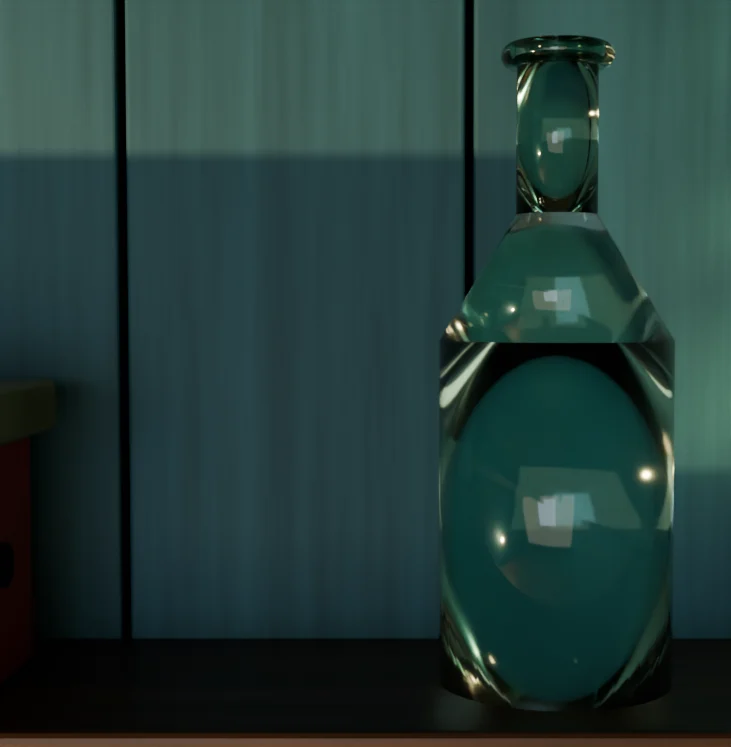
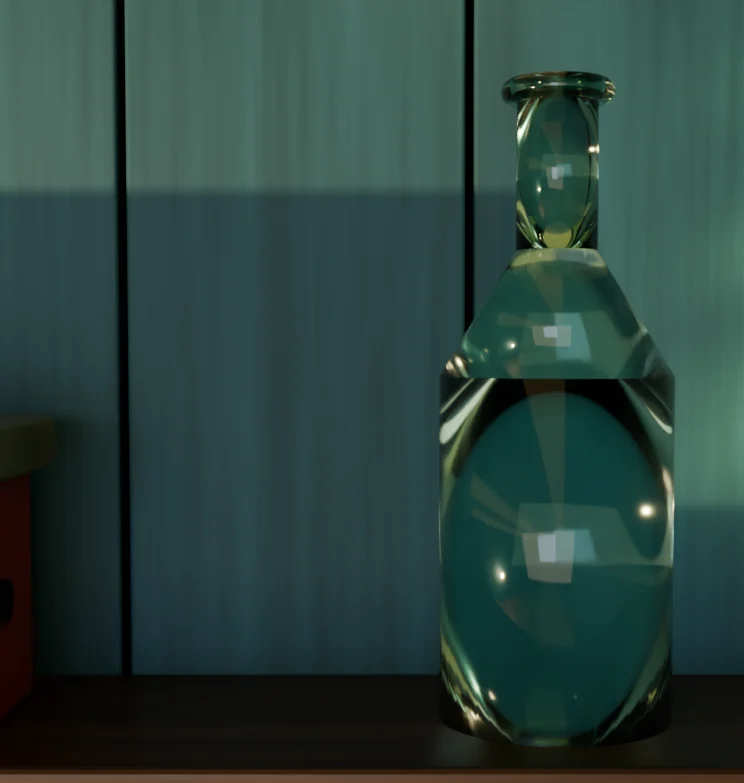
Clock answers the literal sketch, 3D inventory items, only the bottle turns over

diff --git a/js/art.js b/js/art.js
@@ -369,8 +369,17 @@ function kLock(s, fx, q) {
 }
 
 function kBottle(s, fx) {
-  const f = s.f;
-  const a = `<g class="${fx === 'flip' ? 'fx-flip' : ''}" style="transform-origin:200px 250px">` + rendered('bottle', { bottle: !f.pageOut ? 'paper' : !f.pageTaken ? 'out' : 'empty' }, s, fx, true) + '</g>';
+  const f = s.f, m = M3.bottle, r = m.regions.bottle.rect;
+  let a;
+  if (fx === 'flip') {
+    // only the bottle turns over: the shelf stays where it is, the paper is there when it comes back
+    const hb = m.hots.bottle, cx = hb[0] + hb[2] / 2, cy = hb[1] + hb[3] / 2;
+    a = rendered('bottle', { bottle: 'none' }, s, fx, true) +
+      `<g class="fx-flipout" style="transform-origin:${n(cx)}px ${n(cy)}px">${pic('bottle_sprite_bottle_lit', r)}</g>` +
+      `<g class="fx-flipin">${pic('bottle_bottle_out_lit', r)}</g>`;
+  } else {
+    a = rendered('bottle', { bottle: !f.pageOut ? 'paper' : !f.pageTaken ? 'out' : 'empty' }, s, fx, true);
+  }
   let h = hot3('bottle', 'bottle');
   if (f.pageOut && !f.pageTaken) h += hot3('bottle', 'page');
   return { art: a, hots: h, glow: [-80, 200, 420], noNight: true, soft: true };
@@ -489,7 +498,8 @@ function kRings(s, fx, q) {
 
 // Every picture file, so the game can fetch them before they are needed.
 export function pictureFiles() {
-  const out = [];
+  const out = ITEM_NAMES.map((i) => `art3d/icon_${i}.webp`);
+  out.push('art3d/bottle_sprite_bottle_lit.webp');
   for (const [view, m] of Object.entries(M3)) {
     for (const tone of m.tones || ['lit', 'dark']) {
       out.push(`art3d/${view}_${tone}.webp`);
@@ -553,19 +563,8 @@ export function blinkCSS() {
   return css;
 }
 
+export const ITEM_NAMES = ['matches', 'jar', 'lens', 'crank', 'oil', 'page', 'drum', 'hkey', 'key'];
 export function icon(item) {
-  const svg = (b) => `<svg viewBox="0 0 40 40" aria-hidden="true">${b}</svg>`;
-  switch (item) {
-    case 'matches': return svg(R(6, 11, 28, 18, 'red', '', 0.6) + R(6, 16, 28, 8, 'paper', '', 0.4) + C(20, 20, 2.6, 'brass'));
-    case 'jar': return svg(R(11, 12, 18, 23, 'glass', '', 0.5) + R(13, 22, 14, 12, '#5F9C9A', '', 0.4) + R(10, 6, 20, 6, 'brass2', '', 0.4) + C(17, 27, 1.4, 'phos') + C(23, 30, 1.1, 'phos') + C(21, 25, 0.9, 'phos'));
-    case 'page': return svg(P([[13, 5], [31, 6], [32, 35], [11, 34], [14, 27], [10, 20], [14, 13]], 'paper', '', 0.5) + S('M12 20 a11 11 0 0 1 11 -11', 'ink', 1.6) + L(13, 20, 22, 25, 'ink', 1.8));
-    case 'lens': return svg(C(20, 20, 14, 'brass2') + C(20, 20, 10.5, 'fog') + P([[14, 14], [19, 12], [17, 18]], 'paper', '', 0.3));
-    case 'crank': return svg(S('M9 28 h18 v-15', 'brass', 4.5) + C(27, 11, 5, 'brass') + C(9, 28, 3.6, 'brass2'));
-    case 'oil': return svg(P([[9, 34], [27, 34], [24, 16], [12, 16]], 'brass2', '', 0.5) + L(23, 18, 35, 8, 'brass2', 3) + C(18, 14, 3.4, 'brass') + L(13, 20, 14, 31, 'brass3', 1.4));
-    case 'drum': return svg(R(6, 13, 28, 14, 'brass', '', 0.4) + C(11, 18, 1.2, 'ink') + C(17, 23, 1.2, 'ink') + C(22, 17, 1.2, 'ink') + C(28, 22, 1.2, 'ink') + C(14, 21, 1.2, 'ink') + C(25, 20, 1.2, 'ink'));
-    case 'hkey': return svg(O(13, 20, 5, 'brass', 3) + B(18, 18.6, 14, 2.8, 'brass') + B(27, 21, 2.6, 4.5, 'brass'));
-    case 'key': return svg(O(11, 20, 7, 'brass', 4.5) + B(18, 17.8, 18, 4.4, 'brass') + B(27, 22, 4, 7, 'brass') + B(33, 22, 3, 5, 'brass'));
-  }
-  return '';
+  return `<img src="art3d/icon_${item}.webp" alt="" draggable="false">`;
 }
 

diff --git a/css/style.css b/css/style.css
@@ -142,7 +142,7 @@ button:focus-visible { outline: 2px solid var(--lampc); outline-offset: 3px; }
 /* sparks and the thing you picked up flying to your pocket */
 .spark { position: absolute; width: 6px; height: 6px; margin: -3px 0 0 -3px; border-radius: 50%; pointer-events: none; z-index: 3; }
 .fly { position: fixed; z-index: 9; width: 43px; height: 43px; margin: -21px 0 0 -21px; pointer-events: none; }
-.fly svg { width: 100%; height: 100%; display: block; }
+.fly svg, .fly img { width: 100%; height: 100%; display: block; object-fit: contain; }
 
 .fx-patch { animation: beamIn 0.5s ease-out both; }
 
@@ -168,8 +168,10 @@ button:focus-visible { outline: 2px solid var(--lampc); outline-offset: 3px; }
 .fx-blur { filter: blur(7px); }
 .fx-shake { animation: shake 0.4s ease-in-out; }
 @keyframes shake { 20% { transform: translateX(-9px); } 40% { transform: translateX(8px); } 60% { transform: translateX(-6px); } 80% { transform: translateX(4px); } }
-.fx-flip { animation: flip 1.7s cubic-bezier(0.5, 0, 0.3, 1) both; }
-@keyframes flip { 0% { transform: rotate(0); } 35%, 62% { transform: rotate(180deg); } 100% { transform: rotate(360deg); } }
+.fx-flipout { animation: flipOut 1.8s cubic-bezier(0.5, 0, 0.3, 1) both; }
+@keyframes flipOut { 0% { transform: rotate(0); opacity: 1; } 36%, 60% { transform: rotate(180deg); opacity: 1; } 84% { opacity: 1; } 100% { transform: rotate(360deg); opacity: 0; } }
+.fx-flipin { animation: flipIn 1.8s linear both; }
+@keyframes flipIn { 0%, 66% { opacity: 0; } 100% { opacity: 1; } }
 .fx-pageout { animation: pageOut 0.6s ease-out 0.75s both; }
 @keyframes pageOut { from { transform: translate(-90px, -150px) rotate(-80deg); opacity: 0; } }
 
@@ -279,7 +281,7 @@ button:focus-visible { outline: 2px solid var(--lampc); outline-offset: 3px; }
   border-radius: 3px 5px 4px 6px;
   transition: transform 0.12s, background 0.12s;
 }
-.slot svg { width: 100%; height: 100%; display: block; }
+.slot svg, .slot img { width: 100%; height: 100%; display: block; object-fit: contain; pointer-events: none; }
 .slot:empty { opacity: 0.45; }
 .slot.new { animation: drop 0.45s cubic-bezier(0.3, 1.5, 0.5, 1); }
 .slot.glowing { background: #1E5A52; box-shadow: 0 0 14px 2px rgba(159, 240, 200, 0.55); }

diff --git a/js/logic.js b/js/logic.js
@@ -371,6 +371,10 @@ function hotspot(s, name, arg, sel) {
         f.clockSolved = true;
         return { sfx: 'chime', fx: 'clock' };
       }
+      // the sketch, copied hand for hand: the most natural wrong answer, so it gets a reply
+      if (s.clock.h === DRAWN_CLOCK.h && s.clock.m === DRAWN_CLOCK.m) {
+        return { sfx: 'tick', fx: 'hand', at: name === 'knobH' ? 'h' : 'm', msg: 'Exactly as he drew it, and nothing happens. But he drew it from his chair, looking at the window.' };
+      }
       return { sfx: 'tick', fx: 'hand', at: name === 'knobH' ? 'h' : 'm' };
     case 'clock/drum':
       if (sel) return {};

diff --git a/js/art3d.js b/js/art3d.js
@@ -1137,14 +1137,15 @@ export const M3 = {
    "bottle": {
     "rect": [
      0.0,
-     56.5,
-     365.5,
-     373.5
+     38.5,
+     372.0,
+     391.5
     ],
     "states": [
      "paper",
      "out",
-     "empty"
+     "empty",
+     "none"
     ]
    }
   },
